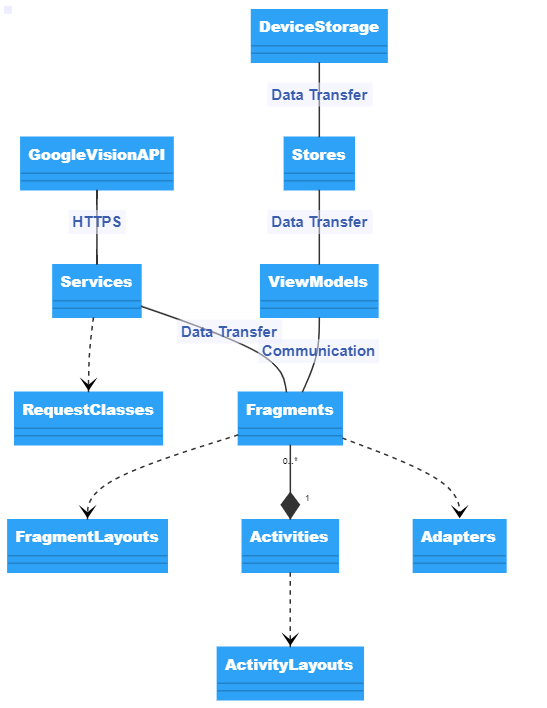
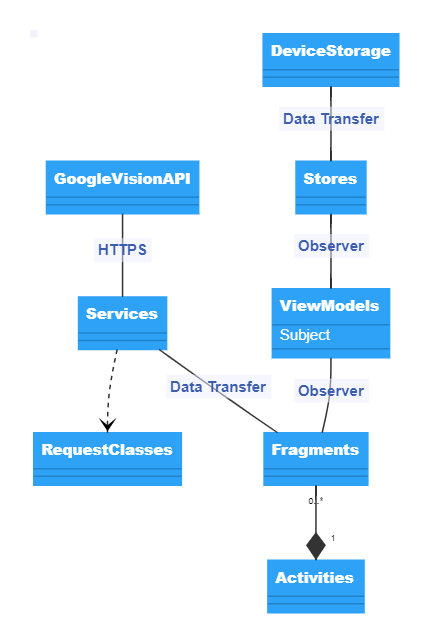
Make final changes to report

diff --git a/README.md b/README.md
@@ -9,28 +9,33 @@ This section nonetheless focuses on the context around the app as a whole, so we
 
 ### Top level architecture of the application
 
-Stores are the logic layer that bridges between the UI and the Device Storage, and Services are the logic layer that bridges to the Firebase backend.
+In Figure 1, Stores are the logic layer that bridges between the UI and the Device Storage, and Services are the logic layer that bridges to the Firebase backend.
 We store images in device storage so that they can be viewed by the user later, in a history view.
 Stores encapsulate choices about what information to store about the images and how to store it.
 
 Services encapsulate choices about what Firebase endpoint (Text or Object detection) to use and when. Requests to Firebase are made directly by the Services, and therefore the Services package must also encapsulate information about the structure of queries and responses made to and from Firebase.
 
-Activities are composed of Fragments, and Adapters are used by certain fragments to populate UI list items with data.
 Although it is not common in simple apps, fragments can also contain other fragments. A useful analogy is that a fragment in Android is like a large React component.
 Fragments that are inside of other fragments will be called subfragments.
 
-![architecture diagram](/imgs/Top_Level_Architecture.png)
+| ![top level architecture diagram](/imgs/Top_Level_Architecture.png) |
+|:-:|
+| Figure 1: Top level architecture diagram |
 
 ### More Detailed architecture of the application
 
-ViewModels act as the subject in a subject-observer pattern. The Fragments and Stores observe the Viewmodel data and also initiate changes in it.
+As shown in Figure 2, ViewModels act as the subject in a subject-observer pattern. The Fragments and Stores observe the Viewmodel data and also initiate changes in it.
 RequestClasses encapsulate the logic required to generate a Json request intended for one of the Firebase endpoints.
 
-![architecture diagram](/imgs/Detailed_Architecture.png)
+| ![architecture diagram](/imgs/Detailed_Architecture.png) |
+|:-:|
+| Figure 2: More detailed architecture diagram showing types of relationship and every major component type |
 
-### Sequence diagram showing how an image of text goes from being captured by the user to being read aloud
+There is one RequestClass for each endpoint: ObjectRecognitionRequest and TextRecognitionRequest. Functions in these singletons are called by FirebaseFunctionsService (another singleton) to generate the the Json that the Firebase backend recieves.
 
-Each step in the sequence is labelled with its number in the sequence.
+### Sequence diagram
+
+Each step in the sequence described in Figure 3 is labelled with its number in the sequence.
 Self-connections such as 3, 4, and 14 are all internal processing done by their corresonding component. While these are not the only internal steps that occur in this sequence, these are the internal steps that are necessary for understanding the sequence as a whole.
 
 This sequence begins with the user pressing the button to take a picture.
@@ -46,8 +51,9 @@ The annotations are then sent back to the annotation fragment, which alerts the 
 The final fragment in this process flow, the response fragment, is observing the accessibility viewmodel, and receives the new annotation.
 The response fragment is then rendered on the screen containing the annotation text and plays back the annotations via device audio.
 
-<!-- <img src="https://user-images.githubusercontent.com/62970170/150383233-6d5f1bfc-9510-489e-bfdf-7942a73f9eaf.png" width="1600" height="1080"> -->
-![architecture diagram](/imgs/Image_Capture_Sequence.png)
+| ![Sequence diagram](/imgs/Image_Capture_Sequence.png) |
+|:-:|
+| Figure 3: Sequence diagram showing how an image of text goes from being captured by the user to being read aloud |
 
 ## Testing
 
@@ -59,10 +65,12 @@ If this doesn't work or you already have Android Studio, then in Android Studio 
 
 ### Code Coverage
 
-The following is a code coverage report for the tests in the FirebaseFunctionsService test suite. Almost all parts of the services package are covered, with the exceptions being getter functions, FirebaseAuthService, and any code that is communicating directly with the firebase backend.
+Figure 4 is a code coverage report for the tests in the FirebaseFunctionsService test suite. Almost all parts of the services package are covered, with the exceptions being getter functions, FirebaseAuthService, and any code that is communicating directly with the firebase backend.
 I had no plans to change the FirebaseAuthService
 
-![Code Coverage Report](/imgs/Testing_Coverage.png)
+| ![Code Coverage Report](/imgs/Testing_Coverage.png) |
+|:-:|
+| Figure 4: Code coverage report from Android Studio that shows the amount of code from the services package being reached by the testing suite |
 
 The missing code that is being reported as uncovered is all responsible for communication with the firebase backend, and therefore will not be included in automated testing.
 Including these lines of code in automated testing would be possible if the firebase backend were able to be emulated locally, but since this specific backend utilizes Cloud Vision AI, it cannot be emulated locally (at least not without drastic changes to the code base).
@@ -70,14 +78,24 @@ Including these lines of code in automated testing would be possible if the fire
 ## Refactoring
 
 ### Testability
+
 Many parts of the services package and its immediate clients used chains of getters instead of temporary variables, which leads to fewer lines of code, a cleaner look, and in the end, poor debuggability.
+
+The following is a list of the locations of these types of infractions, all having been corrected:
+
+- annotate() in FirebaseFunctionsService.Annotator.TEXT has a chain that should be broken up
+- annotate() in FirebaseFunctionsService.Annotator.OBJECT has a chain that should be broken up
+- The TextRecognitionRequest object should have a local constant instead of a magic string
+- The ObjectRecognitionRequest object should have a local constant instead of a magic string
+- The ObjectRecognitionRequest object should have a local constant instead of a magic number
+
 These were my first targets for refactoring, largely because it was necessary to make these refactorings in order to develop a test suite.
 
 Also for the purpose of testability, I was forced to change visibility of certain functions from `private` to `internal`.
 
 ### `requestAnnotation()` and `formatAnnotationResult()`
 
-The rest of the Refactoring section is devoted to specific cases of refactoring that had meaningful impact on package architecture, including readability, flexibility, and maintainability.
+The rest of the Refactoring section is devoted to specific cases of refactoring that had meaningful impact on package architecture, including readability, modifiability, and maintainability.
 
 ``` Kotlin
 fun requestAnnotation(image: Bitmap): AnnotateImageResponse {
@@ -275,3 +293,17 @@ class FirebaseFunctionsService {
 While one could pass in `selectedTab.text`, it is preferable to pass in the TabLayout itself because this further hides the inner workings of the Annotator enumeration.
 This way, the AccessibilityFragment does not know how the correct annotator is chosen, it just knows that the TabLayout and context are necessary.
 This should minimize refactoring in the event that a different implementation of getAnnotatorForSelectedTab is adopted in the future.
+
+## In Summary
+
+Many code smells and possible refactorings were present in the Services package, but not so many that it was difficult to begin refactoring.
+Some minor issues with readability were caused by chaining of calls and suboptimal function and variable names, but most of the difficulty of understanding this architecture came from its sheer size.
+There are many different moving parts, and each one seems to be justified in its separation from other parts.
+There were no applicable standards with the services package components, to the best of my knowledge.
+
+Despite the code base's relatively good architecture, the amount of possible refactorings did add up to some issues with robustness and modifiability.
+We saw that there was an unsafe null that occurs with `Gson().fromJson()` which would have been a very difficult bug to root out if I hadn't happened upon it by coincidence while testing.
+I was surprised to find that my refactoring led to such a large change as creating a new module `RecognitionJsonResponse`.
+This seems to me like very strong evidence of what was said in course reading, that architecture can be improved in large ways through a thoughtful set of refactorings.
+To me, it was almost as though the new module had simply fallen in my lap after I loosened it with the smaller refactorings I applied along the way.
+The fact that `RecognitionJsonResponse` can now be implemented in most any way with minimal change to `FirebaseFunctionsService` is proof that there was a deficiency in modifiability before separating this new class out from `FirebaseFunctionsService`.
